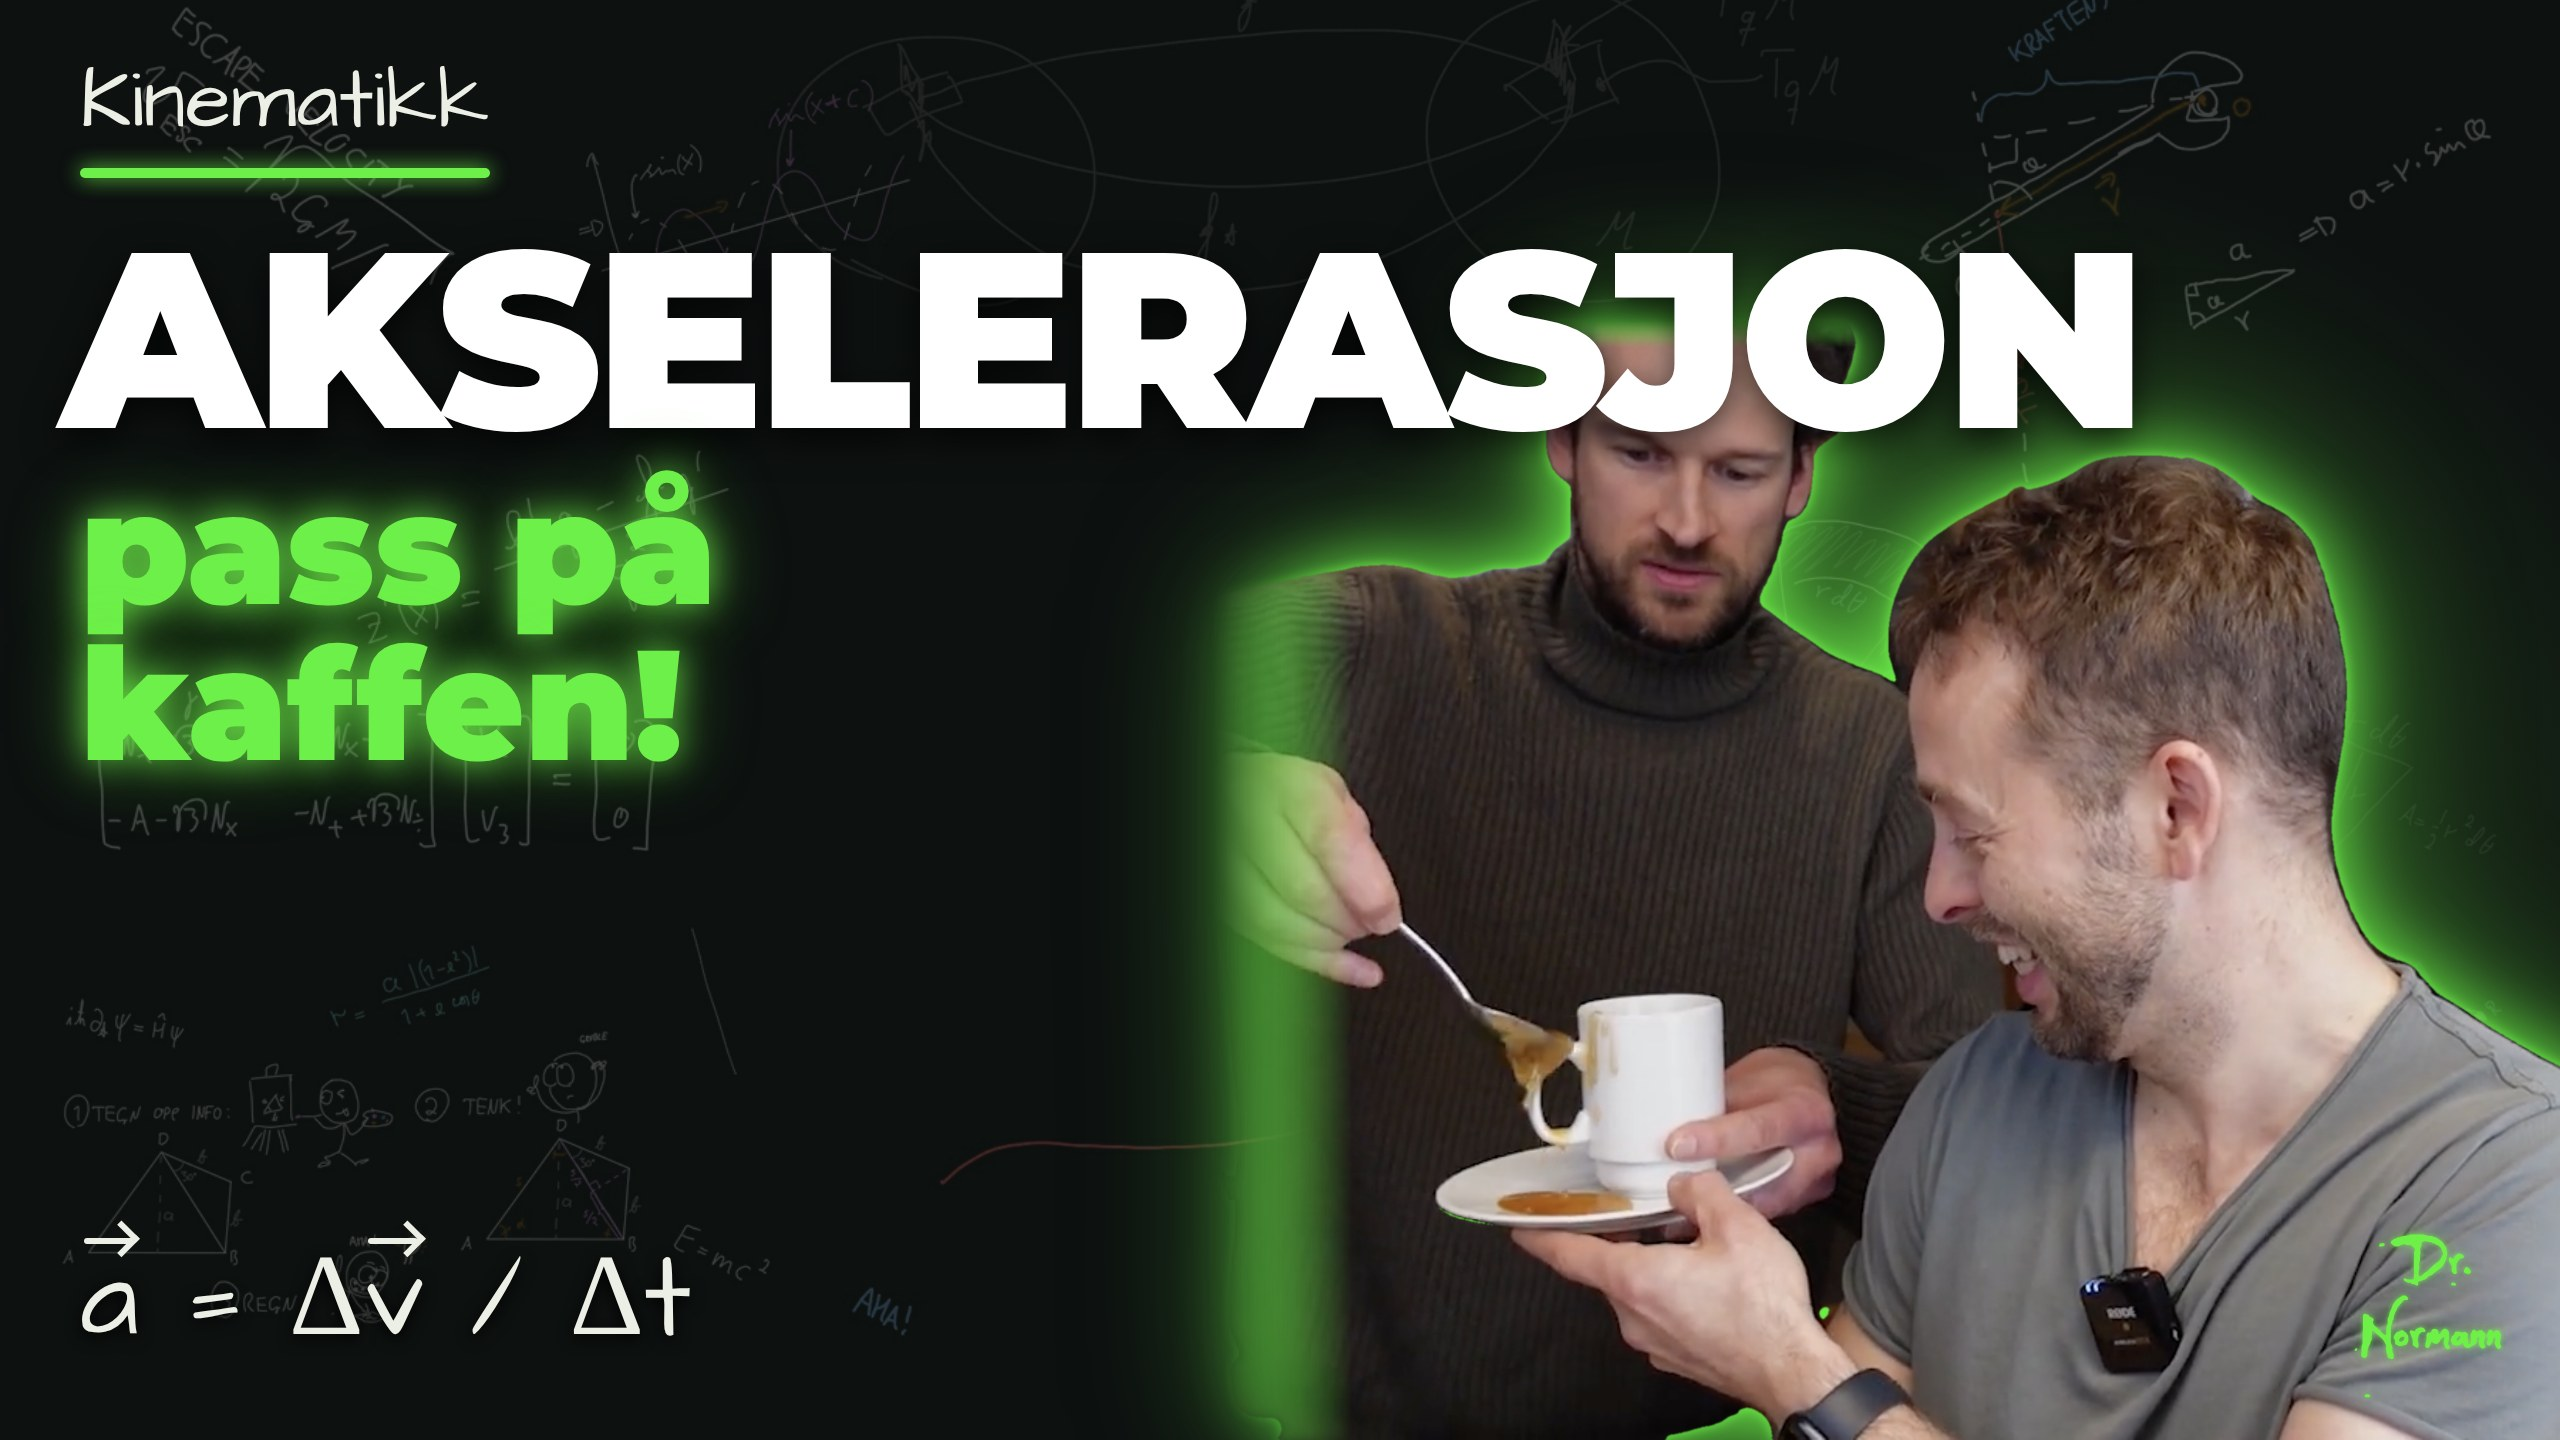
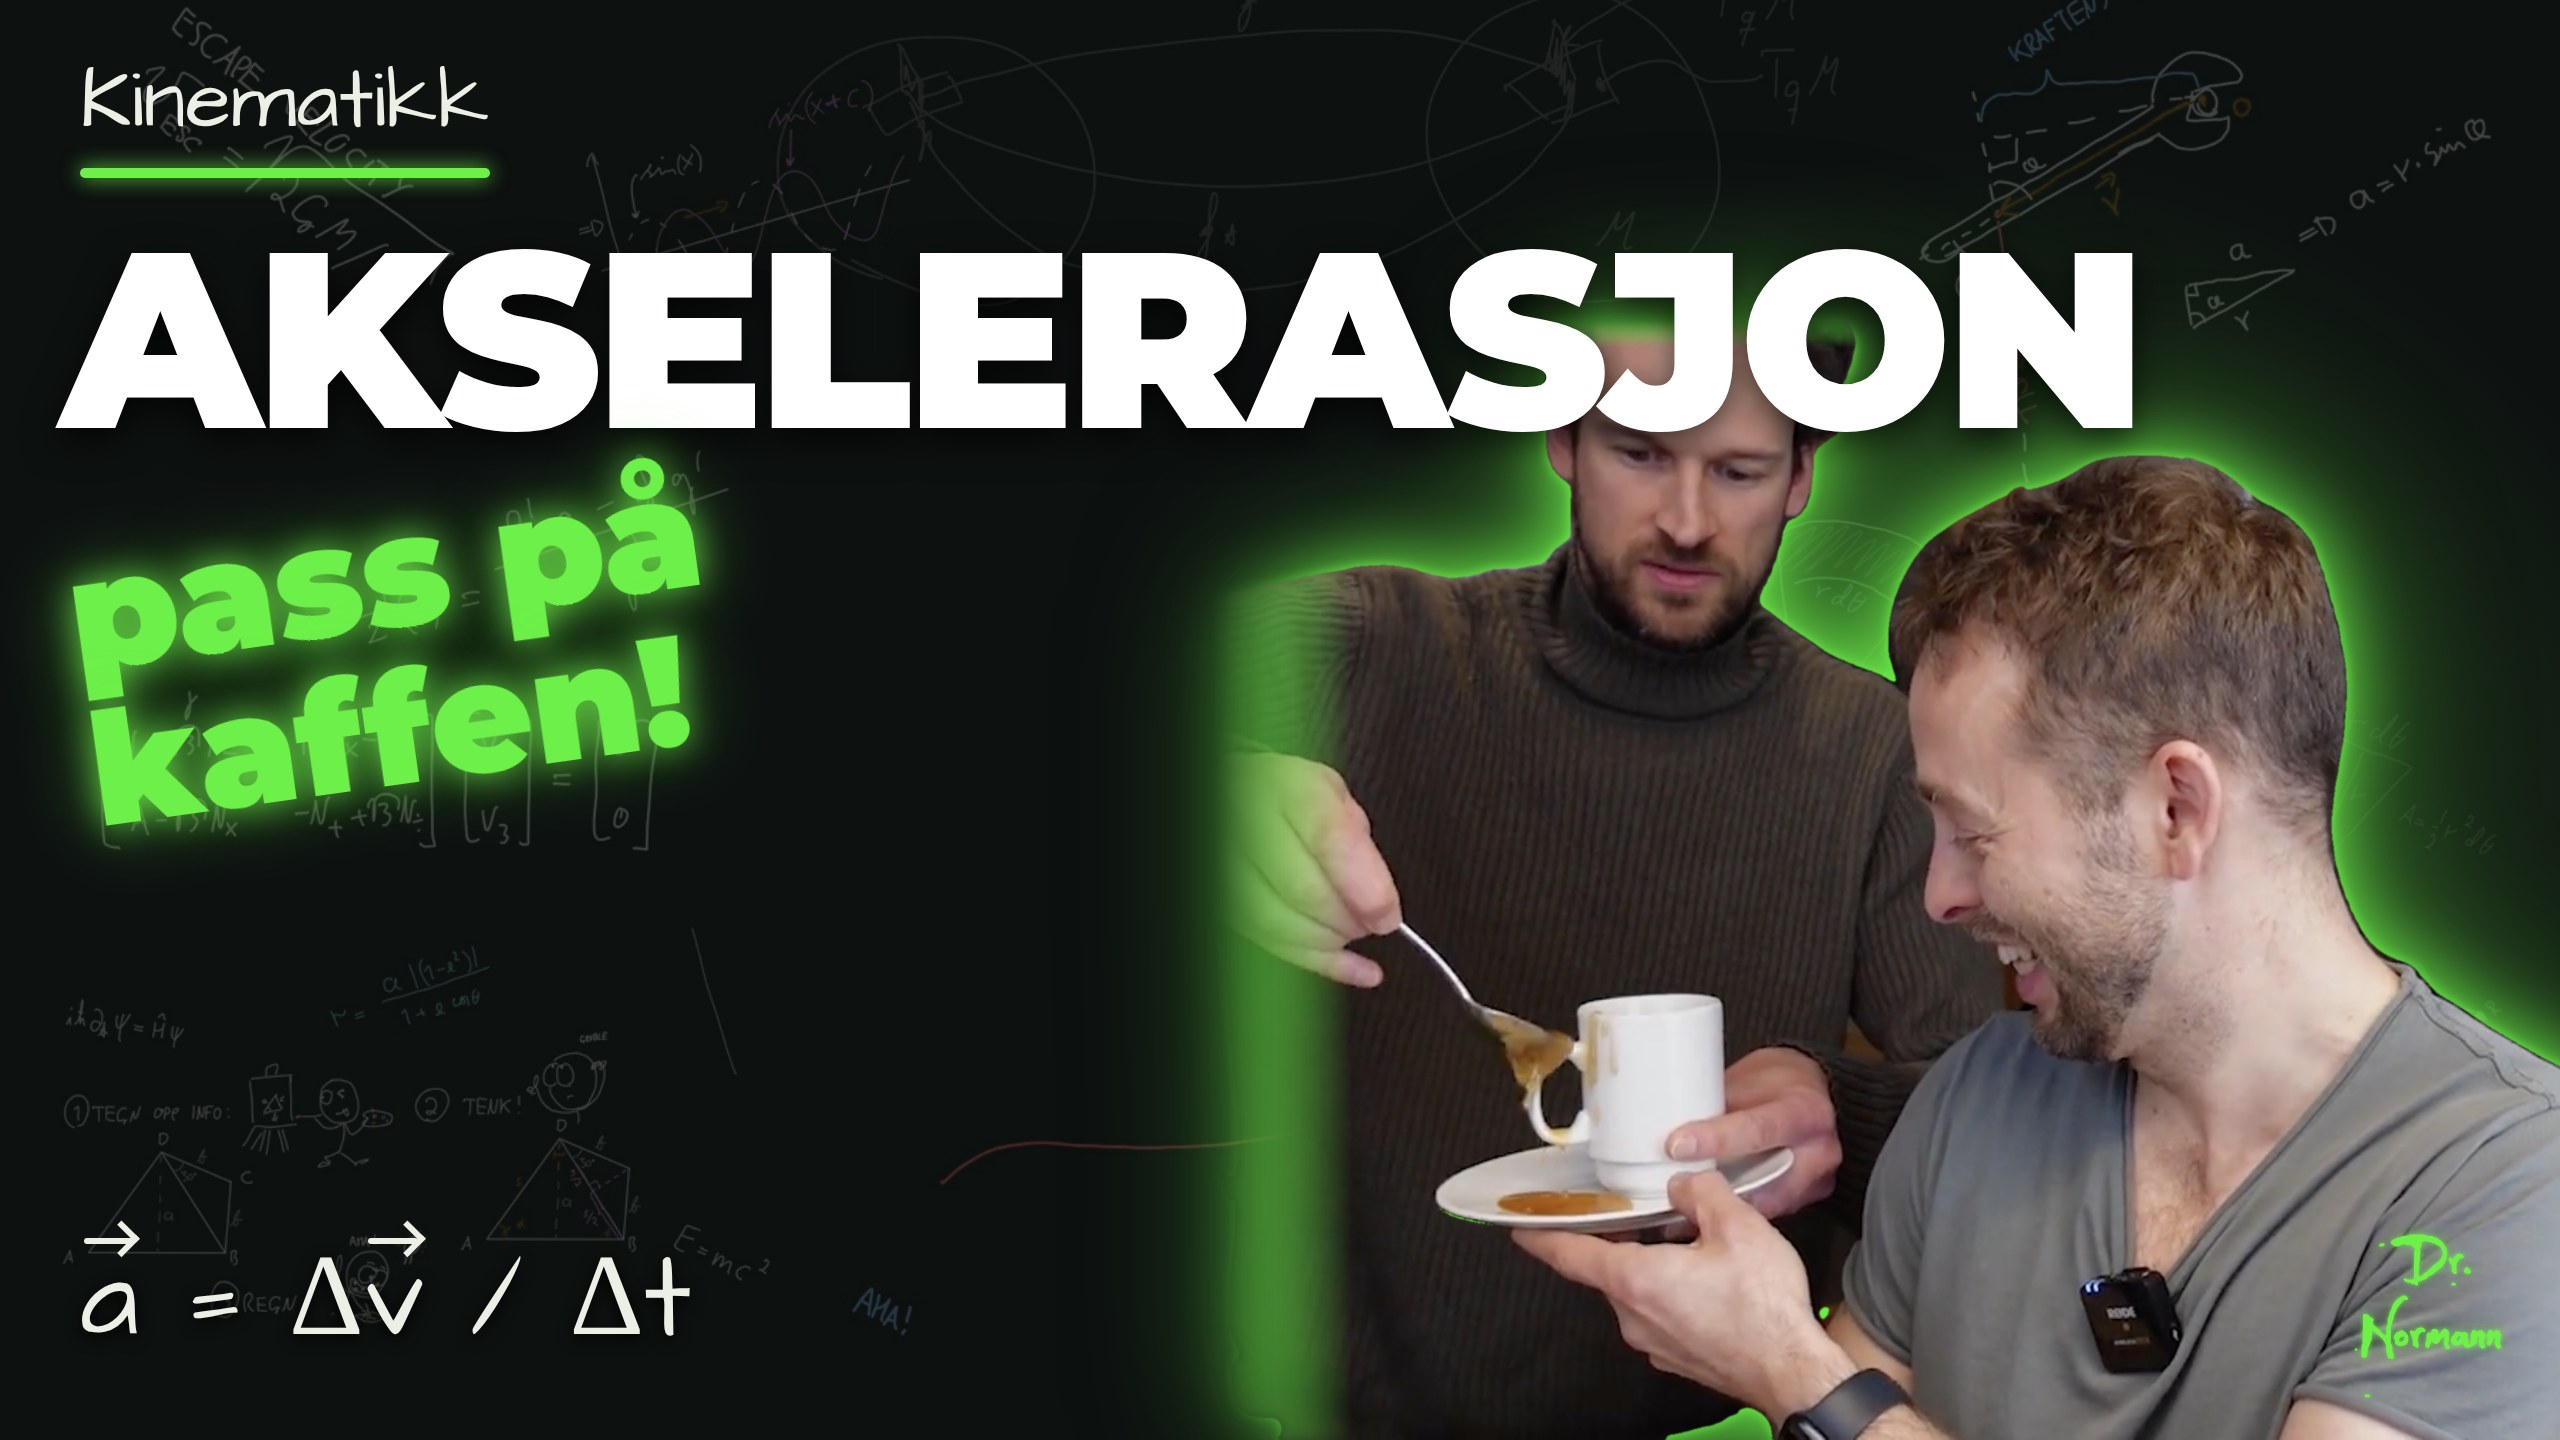
Potensiell energi: kutt «løfter den oppover», dubb «løfter den» inn i «sier at jeg løfter den med konstant fart»; miniatyrbilder: vippet undertittel, ny slogan for Hva er mekanikk
Claude-Session: https://claude.ai/code/session_01AG264w92gA6VbNbZjhAhPL

Changed region(s): [[0.0, 0.3125, 0.2812, 0.5938]]

diff --git a/arbeid-og-energi/potensiell-energi/anim.html b/arbeid-og-energi/potensiell-energi/anim.html
@@ -92,9 +92,9 @@ const pil = (x1, y1, x2, y2, farge, b, inn, v, ut) => {   // pil som strek med p
 // ---------- tidslinje ----------
 // Tidene under er skrevet i T = tid i FØRSTE klipp (klipp/edl.json). Utkast 2 har kuttet bort noen biter;
 // KLIPP oversetter gammel T til ny T: [gammel T0, gammel T1, ny T0] per bit (klipp/edl2.json).
-const KLIPP = [[0, 12.433, 0.0], [12.433, 14.499, 12.44], [14.499, 19.15, 14.52], [20.55, 29.342, 19.16], [29.342, 37.708, 27.96], [37.708, 40.174, 36.32], [40.174, 43.486, 38.8], [43.486, 51.219, 42.12], [51.219, 53.952, 49.84], [53.952, 58.562, 52.56], [58.562, 60.528, 57.16], [60.528, 73.728, 59.12], [73.728, 83.728, 72.32], [83.728, 92.094, 82.32], [92.094, 98.634, 90.68], [98.634, 106.644, 97.24], [106.924, 108.71, 105.24], [108.71, 114.21, 107.04], [114.21, 118.043, 112.92], [118.043, 123.476, 116.76], [123.476, 133.242, 122.2], [133.242, 145.075, 131.96], [145.075, 146.515, 143.8], [146.515, 148.515, 145.24], [148.515, 149.915, 147.24], [149.915, 158.9, 148.64], [160.8, 160.981, 157.64], [160.981, 174.081, 157.84], [174.081, 184.481, 170.92], [184.481, 191.047, 181.32], [191.047, 196.813, 187.88], [196.813, 199.055, 193.64], [199.055, 203.055, 195.88], [203.055, 212.788, 199.88], [212.788, 216.6, 209.6], [219.5, 221.85, 213.4], [226.5, 229.387, 215.76], [229.387, 234.787, 218.64], [234.787, 241.253, 224.04], [241.253, 242.319, 230.52]];
+const KLIPP = [[0, 12.433, 0.0], [12.433, 14.499, 12.44], [14.499, 19.15, 14.52], [20.55, 29.342, 19.16], [29.342, 37.708, 27.96], [37.708, 40.174, 36.32], [40.174, 43.486, 38.8], [43.486, 51.219, 42.12], [51.219, 53.952, 49.84], [53.952, 58.562, 52.56], [58.562, 60.528, 57.16], [60.528, 73.728, 59.12], [73.728, 83.728, 72.32], [83.728, 92.094, 82.32], [92.094, 98.634, 90.68], [98.634, 106.644, 97.24], [106.924, 108.71, 105.24], [108.71, 114.21, 107.04], [114.21, 118.043, 112.92], [118.043, 123.476, 116.76], [123.476, 133.242, 122.2], [133.242, 145.075, 131.96], [145.075, 146.515, 143.8], [146.515, 148.515, 145.24], [148.515, 149.915, 147.24], [149.915, 157.435, 148.64], [160.8, 160.981, 156.16], [160.981, 162.981, 156.36], [162.981, 162.981, 158.36], [163.301, 174.081, 159.12], [174.081, 184.481, 169.88], [184.481, 191.047, 180.28], [191.047, 196.813, 186.84], [196.813, 199.055, 192.6], [199.055, 203.055, 194.84], [203.055, 212.788, 198.84], [212.788, 216.6, 208.56], [219.5, 221.85, 212.36], [226.5, 229.387, 214.72], [229.387, 234.787, 217.6], [234.787, 241.253, 223.0], [241.253, 242.319, 229.48]];
 const R = T => { for (const [a, b, n] of KLIPP) { if (T < a) return n; if (T <= b) return n + (T - a); } const s = KLIPP[KLIPP.length - 1]; return s[2] + (s[1] - s[0]); };
-const KALD = 14.5, TITTEL = 1.6, HOVED = 217.53, DASH = 5.5;
+const KALD = 14.5, TITTEL = 1.6, HOVED = 216.49, DASH = 5.5;
 const M = T => R(T) + TITTEL;            // tid i (gammelt) opptak → tid i animasjonen
 const SLUTT = KALD + TITTEL + HOVED + DASH;
 window.S = [['kald', KALD], ['tittel', TITTEL], ['hoved', HOVED], ['dashman', DASH]];
@@ -243,7 +243,7 @@ skriv('EKS 2: ENERGI I TYNGDEFELTET', 90, 60, D0 + 0.2, D1, 'h2', 1.3);
 sti('M90 145 q20 -10 40 0 t40 0 t40 0 t40 0 t40 0 t40 0 t40 0 t40 0 t40 0 t40 0 t40 0 t40 0 t40 0 t40 0 t40 0 t40 0 t40 0 t40 0 t40 0 t40 0 t40 0 t40 0', '#eee462', 4, D0 + 1.2, 0.8, D1);
 // boka løftes fra bakken til høyden h (x 900–1240)
 sti('M760 900 L1100 900', '#ecefe6', 4, M(152.0), 0.8, D1);
-lag('<svg width="120" height="120"><rect x="8" y="34" width="104" height="58" rx="5" fill="none" stroke="#ecefe6" stroke-width="5"/><path d="M8 48 L112 48 M22 34 L22 92" stroke="#ecefe6" stroke-width="3" fill="none"/><path d="M34 64 L96 64 M34 76 L84 76" stroke="#9aa49e" stroke-width="3" fill="none"/></svg>', 820, 790, M(152.4), D1, 'ball', { fra: M(155.0), til: M(161.0), y0: 790, y1: 330 });
+lag('<svg width="120" height="120"><rect x="8" y="34" width="104" height="58" rx="5" fill="none" stroke="#ecefe6" stroke-width="5"/><path d="M8 48 L112 48 M22 34 L22 92" stroke="#ecefe6" stroke-width="3" fill="none"/><path d="M34 64 L96 64 M34 76 L84 76" stroke="#9aa49e" stroke-width="3" fill="none"/></svg>', 820, 790, M(152.4), D1, 'ball', { fra: M(154.2), til: M(157.4), y0: 790, y1: 330 });
 lag('<svg width="120" height="120"><rect x="8" y="34" width="104" height="58" rx="5" fill="none" stroke="#9aa49e" stroke-width="3" stroke-dasharray="8 9"/></svg>', 820, 790, M(161.0), D1, 'fade');
 pil(880, 470, 880, 600, '#6ef04a', 7, M(166.4), 0.8, D1);   // G ned
 skriv('<span class="v">G</span>', 896, 560, M(166.8), D1, 't', 0.4, { css: 'color:#6ef04a' });

diff --git a/arbeid-og-energi/potensiell-energi/anim.mal.html b/arbeid-og-energi/potensiell-energi/anim.mal.html
@@ -86,9 +86,9 @@ const pil = (x1, y1, x2, y2, farge, b, inn, v, ut) => {   // pil som strek med p
 // ---------- tidslinje ----------
 // Tidene under er skrevet i T = tid i FØRSTE klipp (klipp/edl.json). Utkast 2 har kuttet bort noen biter;
 // KLIPP oversetter gammel T til ny T: [gammel T0, gammel T1, ny T0] per bit (klipp/edl2.json).
-const KLIPP = [[0, 12.433, 0.0], [12.433, 14.499, 12.44], [14.499, 19.15, 14.52], [20.55, 29.342, 19.16], [29.342, 37.708, 27.96], [37.708, 40.174, 36.32], [40.174, 43.486, 38.8], [43.486, 51.219, 42.12], [51.219, 53.952, 49.84], [53.952, 58.562, 52.56], [58.562, 60.528, 57.16], [60.528, 73.728, 59.12], [73.728, 83.728, 72.32], [83.728, 92.094, 82.32], [92.094, 98.634, 90.68], [98.634, 106.644, 97.24], [106.924, 108.71, 105.24], [108.71, 114.21, 107.04], [114.21, 118.043, 112.92], [118.043, 123.476, 116.76], [123.476, 133.242, 122.2], [133.242, 145.075, 131.96], [145.075, 146.515, 143.8], [146.515, 148.515, 145.24], [148.515, 149.915, 147.24], [149.915, 158.9, 148.64], [160.8, 160.981, 157.64], [160.981, 174.081, 157.84], [174.081, 184.481, 170.92], [184.481, 191.047, 181.32], [191.047, 196.813, 187.88], [196.813, 199.055, 193.64], [199.055, 203.055, 195.88], [203.055, 212.788, 199.88], [212.788, 216.6, 209.6], [219.5, 221.85, 213.4], [226.5, 229.387, 215.76], [229.387, 234.787, 218.64], [234.787, 241.253, 224.04], [241.253, 242.319, 230.52]];
+const KLIPP = [[0, 12.433, 0.0], [12.433, 14.499, 12.44], [14.499, 19.15, 14.52], [20.55, 29.342, 19.16], [29.342, 37.708, 27.96], [37.708, 40.174, 36.32], [40.174, 43.486, 38.8], [43.486, 51.219, 42.12], [51.219, 53.952, 49.84], [53.952, 58.562, 52.56], [58.562, 60.528, 57.16], [60.528, 73.728, 59.12], [73.728, 83.728, 72.32], [83.728, 92.094, 82.32], [92.094, 98.634, 90.68], [98.634, 106.644, 97.24], [106.924, 108.71, 105.24], [108.71, 114.21, 107.04], [114.21, 118.043, 112.92], [118.043, 123.476, 116.76], [123.476, 133.242, 122.2], [133.242, 145.075, 131.96], [145.075, 146.515, 143.8], [146.515, 148.515, 145.24], [148.515, 149.915, 147.24], [149.915, 157.435, 148.64], [160.8, 160.981, 156.16], [160.981, 162.981, 156.36], [162.981, 162.981, 158.36], [163.301, 174.081, 159.12], [174.081, 184.481, 169.88], [184.481, 191.047, 180.28], [191.047, 196.813, 186.84], [196.813, 199.055, 192.6], [199.055, 203.055, 194.84], [203.055, 212.788, 198.84], [212.788, 216.6, 208.56], [219.5, 221.85, 212.36], [226.5, 229.387, 214.72], [229.387, 234.787, 217.6], [234.787, 241.253, 223.0], [241.253, 242.319, 229.48]];
 const R = T => { for (const [a, b, n] of KLIPP) { if (T < a) return n; if (T <= b) return n + (T - a); } const s = KLIPP[KLIPP.length - 1]; return s[2] + (s[1] - s[0]); };
-const KALD = 14.5, TITTEL = 1.6, HOVED = 217.53, DASH = 5.5;
+const KALD = 14.5, TITTEL = 1.6, HOVED = 216.49, DASH = 5.5;
 const M = T => R(T) + TITTEL;            // tid i (gammelt) opptak → tid i animasjonen
 const SLUTT = KALD + TITTEL + HOVED + DASH;
 window.S = [['kald', KALD], ['tittel', TITTEL], ['hoved', HOVED], ['dashman', DASH]];
@@ -237,7 +237,7 @@ skriv('EKS 2: ENERGI I TYNGDEFELTET', 90, 60, D0 + 0.2, D1, 'h2', 1.3);
 sti('M90 145 q20 -10 40 0 t40 0 t40 0 t40 0 t40 0 t40 0 t40 0 t40 0 t40 0 t40 0 t40 0 t40 0 t40 0 t40 0 t40 0 t40 0 t40 0 t40 0 t40 0 t40 0 t40 0 t40 0', '#eee462', 4, D0 + 1.2, 0.8, D1);
 // boka løftes fra bakken til høyden h (x 900–1240)
 sti('M760 900 L1100 900', '#ecefe6', 4, M(152.0), 0.8, D1);
-lag('<svg width="120" height="120"><rect x="8" y="34" width="104" height="58" rx="5" fill="none" stroke="#ecefe6" stroke-width="5"/><path d="M8 48 L112 48 M22 34 L22 92" stroke="#ecefe6" stroke-width="3" fill="none"/><path d="M34 64 L96 64 M34 76 L84 76" stroke="#9aa49e" stroke-width="3" fill="none"/></svg>', 820, 790, M(152.4), D1, 'ball', { fra: M(155.0), til: M(161.0), y0: 790, y1: 330 });
+lag('<svg width="120" height="120"><rect x="8" y="34" width="104" height="58" rx="5" fill="none" stroke="#ecefe6" stroke-width="5"/><path d="M8 48 L112 48 M22 34 L22 92" stroke="#ecefe6" stroke-width="3" fill="none"/><path d="M34 64 L96 64 M34 76 L84 76" stroke="#9aa49e" stroke-width="3" fill="none"/></svg>', 820, 790, M(152.4), D1, 'ball', { fra: M(154.2), til: M(157.4), y0: 790, y1: 330 });
 lag('<svg width="120" height="120"><rect x="8" y="34" width="104" height="58" rx="5" fill="none" stroke="#9aa49e" stroke-width="3" stroke-dasharray="8 9"/></svg>', 820, 790, M(161.0), D1, 'fade');
 pil(880, 470, 880, 600, '#6ef04a', 7, M(166.4), 0.8, D1);   // G ned
 skriv('<span class="v">G</span>', 896, 560, M(166.8), D1, 't', 0.4, { css: 'color:#6ef04a' });

diff --git a/_verktoy/thumbnail.js b/_verktoy/thumbnail.js
@@ -10,6 +10,7 @@
 //   "undertittel": "lagret arbeid",     grønn, lysende (kort!)
 //   "person": "person.png",             læreren klippet ut (sett_sammen.py --utklipp), gjennomsiktig PNG
 //   "beskjaer_person": [0.25, 0.75],    valgfri: hvilken del av utklippet (andel av bredden) som skal brukes
+//   "undertittel_vinkel": -6,           valgfri: vipp undertittelen (grader) for et «raskere» bilde
 //   "tittel_bredde": 1150,             valgfri: maks bredde på tittelen før den krympes (standard 820); bredere tittel kan dekke kanten av et utklipp
 //   "person_hoyre": -150,              valgfri: avstand fra høyre kant (standard -10); negativ skyver personen delvis ut av bildet
 //   "person_hoyde": 560,                valgfri: høyden på utklippet (standard 700 av 720); mindre for brede utklipp med flere personer
@@ -59,6 +60,7 @@ const path = require('path');
   <script>
   window.klar = (async () => {
     await document.fonts.ready;
+    ${c.undertittel_vinkel ? `document.getElementById('under').style.transform = 'translateY(34px) rotate(${c.undertittel_vinkel}deg)'; document.getElementById('under').style.transformOrigin = 'left center';` : ''}
     // lange titler krympes til de får plass på én linje hver (maks 820 px bred)
     const ti = document.getElementById('tittel'), un = document.getElementById('under');
     let fs = ${tSize};

diff --git a/arbeid-og-energi/potensiell-energi/lyd.py b/arbeid-og-energi/potensiell-energi/lyd.py
@@ -12,7 +12,7 @@ def R(T):
         if T < a: return n
         if T <= b: return n + T - a
     a, b, n = KLIPP[-1]; return n + b - a
-KALD, TITTEL, HOVED, DASH = 14.5, 1.6, 217.53, 5.5
+KALD, TITTEL, HOVED, DASH = 14.5, 1.6, 216.49, 5.5
 M = lambda T: R(T) + TITTEL
 LENGDE = KALD + TITTEL + HOVED + DASH; D = KALD + TITTEL + HOVED
 sr = 48000
